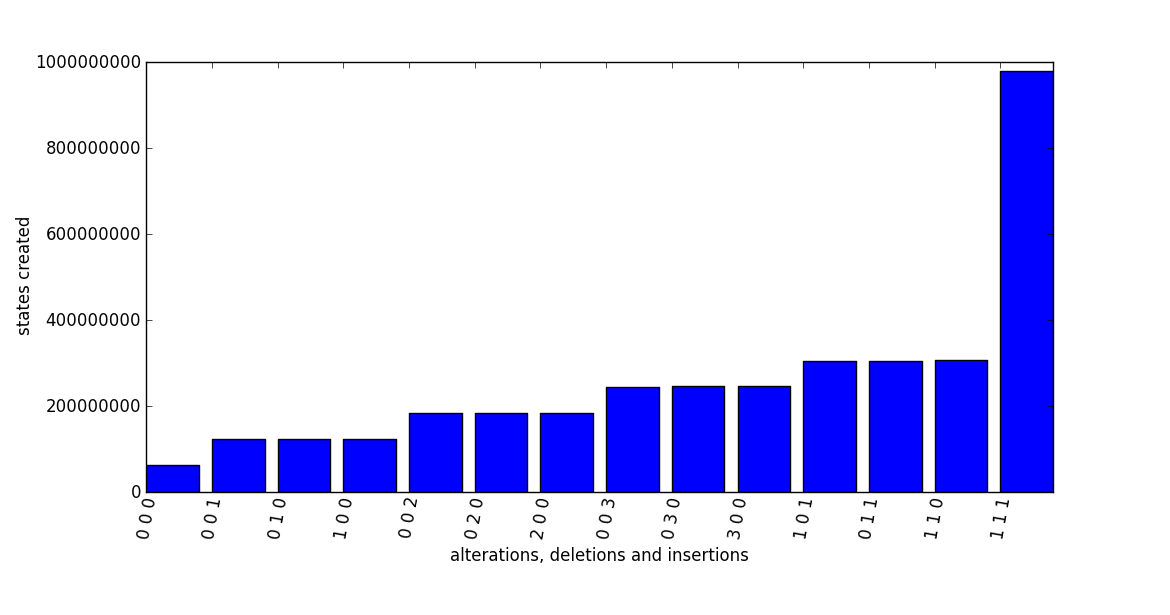
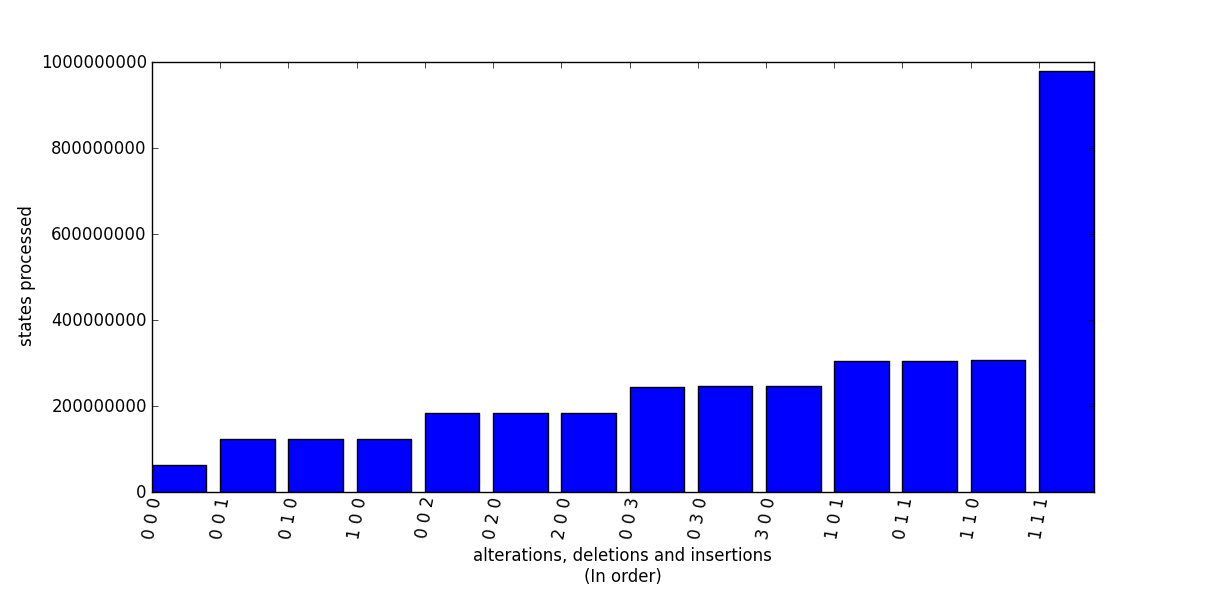
Yir

diff --git a/Rapport/Benchmarking/bench.tex b/Rapport/Benchmarking/bench.tex
@@ -1,8 +1,8 @@
 \section{Experimental Results \& Tests}
 %Using our implementation, TRE and scan\_for\_matches, we were able to do some benchmarking in order to compare performances.
-For this a virtual machine is created, using Oracle VirtualBox\footnote{virtualbox.org}. The machine running the virtualbox is running Windows 8.1 Pro x64 on an SSD, with 8,00 GB RAM, an AMD FX 4300 Quad-Core Processor 3.80 GHz, of which 1 core and 4096MB RAM was given to the virtual machine, which would run Ubuntu 14.04.2 LTS 64 bit.
+For this a virtual machine was created, using Oracle VirtualBox\footnote{virtualbox.org}. The machine running the virtualbox is running Windows 8.1 Pro x64 on an SSD, with 8,00 GB RAM, an AMD FX 4300 Quad-Core Processor 3.80 GHz, of which 1 core and 4096MB RAM was given to the virtual machine, which would run Ubuntu 14.04.2 LTS 64 bit.
 
-We choose to test four different tools, scan\_for\_matches, TRE, Python using the Regex module\footnote{See Appendix~\ref{app:py}} and finally our own implementation, TPaMa. Since TPaMa is focused on supporting insertion, deletion and alteration on a simple sequence, a DNA sequence $TGCAAGCGTTAAT$ with variable insertions is chosen as the search pattern. Each test was executed on a series of data files, a total of of 10 times, given an average runtime, which was used in the following results.
+We chose to test four different tools, scan\_for\_matches, TRE, Python using the Regex module [Appendix~\ref{app:py}] and our own implementation, TPaMa. Since TPaMa is focused on supporting insertion, deletion and alteration on a simple sequence, a DNA sequence $TGCAAGCGTTAAT$ with variable insertions was chosen as the search pattern. Each test was executed on a series of data files, a total of of 10 times, giving an average runtime, which was used in the following results.
 
 %\begin{wrapfigure}{r}{0.6\linewidth}
 %\centering
@@ -11,7 +11,7 @@ We choose to test four different tools, scan\_for\_matches, TRE, Python using th
 %\label{fig:size}
 %\end{wrapfigure}
 
-The testing data was selected to be in the form of the human genome chromosome sequences. Figure~\ref{fig:size} shows a series of fasta files, these files include nucleotide sequences, which all differ in size, decreasing from chr1 to chr22\footnote{http://hgdownload.cse.ucsc.edu/goldenPath/hg18/chromosomes/ JUNE 2015}. These fasta files are the kind of data which scan\_for\_matches is expected to run, and thus excellent for benchmark testing. It is worth noting, that each of these files' lines are 50 characters long, as TRE matches through lines separately, and longer or shorter line sizes might affect the performance of TRE in running time and hits.% This was not tested however.
+The testing data was selected to be in the form of the human genome chromosome sequences. Figure~\ref{fig:size} shows a series of fasta files. These files include nucleotide sequences, which all differ in size, decreasing from chr1 to chr22\footnote{http://hgdownload.cse.ucsc.edu/goldenPath/hg18/chromosomes/ JUNE 2015}. These fasta files are the kind of data which scan\_for\_matches is expected to run, and thus excellent for benchmark testing. It is worth noting, that each of these files' lines are 50 characters long, as TRE matches through lines separately, and longer or shorter line sizes might affect the performance of TRE in running time and hits.% This was not tested however.
 \begin{figure}[h!]
 \centering
 \includegraphics[width=0.7\textwidth]{Benchmarking/size.png}
@@ -19,7 +19,7 @@ The testing data was selected to be in the form of the human genome chromosome s
 \label{fig:size}
 \end{figure}
 
-In the first test we wanted see the runtime of each program, having no mismatches in the pattern $TGCAAGCGTTAAT$. Figure~\ref{fig:0miss} displays the results, and it is evident that scan\_for\_matches is faster all the alternatives. TPaMa and Python has slightly different runtime, TPaMa being slightly faster, and finally TRE is the slowest tool. Common to all four tools is their decrease in runtime corresponds to the sizes of the data files.
+In the first test we wanted see the runtime of each program, having no mismatches in the pattern $TGCAAGCGTTAAT$. Figure~\ref{fig:0miss} displays the results, and it is evident that scan\_for\_matches was faster than all the alternatives. TPaMa and Python had slightly different runtime, TPaMa being slightly faster, and finally TRE was the slowest tool. Common to all four tools was their decrease in runtime corresponds to the sizes of the data files.
 
 \begin{figure}[h!]
 \centering
@@ -36,7 +36,7 @@ In the first test we wanted see the runtime of each program, having no mismatche
 \label{fig:ins1}
 \end{figure}
 
-Next an insertion was added to the pattern, from Figure~\ref{fig:ins1} it is evident that there is an increase in the runtime for all four tools. Scan\_for\_matches continues to be the fastest tool, while TPaMa is the second fastest. Python ran at about double the speed of TPaMa, and TRE continues to be the slowest tool.
+Next an insertion was added to the pattern, from Figure~\ref{fig:ins1} it is evident that there is an increase in the runtime of all four tools. Scan\_for\_matches continued to be the fastest tool, while TPaMa was the second fastest. Python ran at about half the speed of TPaMa, and TRE continued to be the slowest tool.
 
 \begin{figure}[h!]
 \centering
@@ -45,7 +45,7 @@ Next an insertion was added to the pattern, from Figure~\ref{fig:ins1} it is evi
 \label{fig:ins2}
 \end{figure}
 
-The next test added another insertion. Looking at Figure~\ref{fig:ins2} scan\_for\_matches did increase its runtime slightly compared to Figure~\ref{fig:ins1}, but the second insertion greatly affected TPaMa, resulting in it running at about half the speed of TRE, which is still faster than Python.  While TRE also had its runtime slightly increased, it is almost unchanged from one insertion.
+The next test added another insertion. Looking at Figure~\ref{fig:ins2} scan\_for\_matches did increase its runtime slightly compared to Figure~\ref{fig:ins1}, but the second insertion greatly affected TPaMa, resulting in it being only twice as fast as TRE, which is still faster than Python.  While TRE also had its runtime slightly increased, it is almost unchanged from one insertion.
 
 \begin{figure}[h!]
 \centering
@@ -54,26 +54,36 @@ The next test added another insertion. Looking at Figure~\ref{fig:ins2} scan\_fo
 \label{fig:ins3}
 \end{figure}
 
-Testing with three insertions, Figure~\ref{fig:ins3} Python is now the slowest tool, and TPaMa is still faster than TRE, which is now the second slowest tool, and scan\_for\_matches is still the fastest tool.
+Testing with three insertions, Figure~\ref{fig:ins3} Python was the slowest tool, and TPaMa was faster than TRE, which were the second slowest tool. Scan\_for\_matches was still the fastest tool.
 
-From these three tests its evident that TPaMa experiences an increased runtime with an increasing number of insertions, affecting it at a much higher rate than both scan\_for\_matches and TRE. It does seem, however, that Python has a similar problem. From this we can conclude that TPaMa, as of now, might not be suitable for more advanced patterns.
+Finally we had a test where one of each mismatch type was allowed in Figure~\ref{fig:i1m1d1}. Here TPaMa performed slowest, Python being a close second. TRE and scan\_for\_matches were not greatly impacted by the more complex pattern. Scan\_for\_matches was still the fastest tool. 
 
-We suspect the reason for the rate increased runtime, is the rate of which new states are created. To test this claim, we ran TPaMa again, on fasta file chr22.fa, measuring how the number of states, and thereby the amount of work needed to pattern-match, relates to the number of mismatches allowed.
+\begin{figure}[h!]
+\centering
+\includegraphics[width=0.7\textwidth]{Benchmarking/1ins1mut1del.png}
+\caption{Running time of search through fasta files mentioned in Figure~\ref{fig:size} allowing 1 insertions, 1 deletion and 1 alteration on pattern TGCAAGCGTTAAT}
+\label{fig:i1m1d1}
+\end{figure}
+
+From these four tests, it is evident that TPaMa experiences an increased runtime with an increasing number of insertions, affecting it at a much higher rate than both scan\_for\_matches and TRE.  It does seem, however, that Python has a similar problem.
+The most complex pattern, in Figure~\ref{fig:i1m1d1}, with one of each different mismatch type, results in a worse runtime for TPaMa and Python while TRE and scan\_for\_matches continues to perform with only a slightly increased runtime. From this we can conclude that TPaMa, as of now, is not yet suitable for more advanced patterns.
+
+We suspect that the rate of increasing runtime is proportional to the number of states created when allowing mismatching. To test this claim, we ran TPaMa again, on fasta file chr22.fa, measuring how the number of states, and thereby the amount of work needed to pattern-match, relates to the number of mismatches allowed.
 
 \begin{figure}[h!]
 \centering
 \includegraphics[width=0.9\textwidth]{Benchmarking/states_graph.png}
-\caption{Bar chart showcasing the number of states created corresponding to the number of mismatches allowed.}
+\caption{Bar chart showcasing the number of states created, in chr22.fa, corresponding to the number of mismatches allowed.}
 \label{fig:statesgraph}
 \end{figure}
 
-The chart in Figure~\ref{fig:statesgraph} displays an increasing number of states, corresponding to the increasing number of mismatches. We can observe how allowing any number of mismatches of the same type, be it insertion, alternation or deletion, yields roughly the same number of states, actually deletions and alternations gives exactly the same amount of states, as their behavior is exactly the same.
+The chart in Figure~\ref{fig:statesgraph} displays an increasing number of states, corresponding to the increasing number of mismatches. We can observe how allowing any number of mismatches of the same type, be it insertion, alterations or deletion, yields roughly the same number of states. Deletions and alterations giving exactly the same amount of states, as their behavior is exactly the same.
 
-Another observation is how two mismatches of different types result in more new states than two or even three mismatches of the same type would. This can be explained due to TPaMa creating two new states every time a mismatch is encountered in the data. Causing an exponential growth of states, opposed to a linear growth. Finally there is a measurement with a mismatch of every type, causing a massive growth in states, again being due to an exponential growth, now making three states per mismatch, instead of two or one.  
+Another observation is how two mismatches of different types result in more new states than two or even three mismatches of the same type would. This can be explained due to TPaMa creating two new states every time a mismatch is encountered in the data, causing an exponential growth of states, opposed to a linear growth. Finally there is a measurement with a mismatch of every type, causing a massive growth in states due to an exponential growth, now making three states per mismatch, instead of one or two.  
 
 ~
 
-Another interesting thing to test for was the number of hits when searching the files, in Table~\ref{tab:hits} the number of hits which came up when searching on file chr1.fa are shown.
+Another interesting thing to test for was the number of hits when searching the files. In Table~\ref{tab:hits} the number of hits which came up when searching on file chr1.fa are shown.
 
 \begin{table}[h!]
 \centering
@@ -89,4 +99,4 @@ Python & 5 & 48 & 235
 \label{tab:hits}
 \end{table}
 
-The primary reason TPaMa gets more results than scan\_for\_matches is it finding every single match in the file, including overlapping matches, while scan\_for\_matches, by default, only finds matches which do not overlap. TRE has the major disadvantage here that it does not match across newlines, causing it to miss a lot of matches. Finally Python has the same amount of matches as TPaMa, it also looking for overlapping results.
+The primary reason TPaMa gets more results than scan\_for\_matches is it finding every single match in the file, including overlapping matches, while scan\_for\_matches, by default, only finds matches which do not overlap. TRE has the major disadvantage here that it does not match across newlines, causing it to miss a lot of matches. Finally Python has the same amount of matches as TPaMa, because it also looks for overlapping results.

diff --git a/Rapport/Method/Implementation.tex b/Rapport/Method/Implementation.tex
@@ -4,22 +4,18 @@ Having defined an algorithm in Section~\ref{sec:tnfa}, we wished to construct a 
 % Torbens noter kræver begrundelse for beslutninger, hvorfor bruger vi C++
 We wrote a simple program in C++, in order to ensure strict control of the types and behavior of our code. We named the program TNFA Pattern-Matcher (TPaMa). TPaMa is able to create an NFA from a RE, as described in Section~\ref{RA_TO_NFA}, by supporting a series of RE symbols along with concatenation of characters.
 % An example of a TFNA from a RE could be RE "(GAT)+" which would produce a structure as shown in Figure~\ref{fig:gat}
-
 %\begin{figure}[h!]
 %\centering
 %\includegraphics[width=0.5\textwidth]{lib/gat.png}
 %\caption{Example of how TPaMa constructs a TNFA from RE (GAT)+}
 %\label{fig:gat}
 %\end{figure}
-
-Currently the search implementation of TPaMa only support simple patterns such as "GAT", which does not cause any $\epsilon$-transitions to be constructed. This choice was made, so we could focus on the performance of mismatching while giving support to the most crucial part of pattern-matching.
-
-This also meant that determining reachable states, as mentioned in Algorithm~\ref{tnfasim} \&~\ref{tnfatrans}, is rather straightforward, as there's only up to one possible next state for every state (zero for the final state). 
-
+Currently the search implementation of TPaMa only support simple patterns such as "GAT", which does not cause any $\epsilon$-transitions to be constructed. This choice was made, so we could focus on the performance of mismatching while giving support to the most crucial part of pattern-matching. This also meant that determining reachable states, as mentioned in Algorithm~\ref{tnfasim} \&~\ref{tnfatrans}, is rather straightforward, as there's only up to one possible next state for every state (zero for the final state).\\
 To handle mismatching, recall Table~\ref{nfac}:
 
-%\begin{table}[h]
+\begin{table}[h]
 \begin{tabular}{*{2}{m{0.4\textwidth}}}
+\hline
 \begin{center}$a$\end{center} &\begin{center}
 \begin{tikzpicture}[->,>=stealth,shorten >=1pt,auto,node distance=2 cm, scale = 0.75, transform shape,initial text={}]
   \node [initial, state] (0) {};
@@ -31,9 +27,10 @@ To handle mismatching, recall Table~\ref{nfac}:
 
   \path[->] (0) edge [color=blue,bend right] node [color=black, below] {$\epsilon/a$} (1);
 \end{tikzpicture}\end{center}\\
+\hline
 \end{tabular}
-%\end{table}
+\end{table}
 
-There's three different types of mismatches. Instead of having three types of transitions, as the theory call for, in the simulation we solve this by having three counters in each state, one for each type of mismatch (insertions, alternation and deletion), keeping track of the remaining number of mismatches allowed in the match. Whenever a match can not be made, for each mismatch counter with a positive value, a new state is created corresponding to the transitions above; alternations and deletions both advance the state to the next reachable, while insertions remain in the same state in the TNFA, the corresponding mismatch counter is decreased and the pattern-matching continues.
+There's three different types of mismatches. Instead of having three types of transitions, as the theory calls for, in the simulation we solve this by having three counters in each state, one for each type of mismatch, keeping track of the remaining number of mismatches allowed in the match. Whenever a match can not be made, for each mismatch counter with a positive value, a new state is created corresponding to the transitions above; alternations and deletions both advance the state to the next reachable, while insertions remain in the same state in the TNFA. The corresponding mismatch counter is decreased, and the pattern-matching continues.
 
-For every state in the stateset, at some point it will either match the final state of the TFNA at which point a match is printed, or a state will not be able to match, even with mismatches, at which point it will be erased from the stateset. This continues until all data has been checked, at which point the TPaMa terminates.
+For every state in the stateset, at some point it either match the final state of the TFNA, causing the match to be printed, or the state is unmatchable, even with mismatches, causing it to be be erased from the stateset. This continues until all data has been checked, at which point TPaMa terminates.

diff --git a/Rapport/Preliminaries/Biology.tex b/Rapport/Preliminaries/Biology.tex
@@ -20,7 +20,8 @@ nucleotide. DNA can have four nitrogenous bases:
 \end{itemize}
 DNA is primarily found in nature as helixes, where two strands have bonded. Each 
 base has a complementary base with which they can form a hydrogen bond. 
-G is the complementary base of C and A is the complementary base of T.\\\\
+G is the complementary base of C and A is the complementary base of T.
+
 DNA holds the hereditary material of the cells and can replicate itself by 
 detaching two bonded strands, then use each as a template for a new strand 
 to bond with the detached strands~\cite[p. 199]{alberts}.
@@ -33,7 +34,8 @@ can fold back on themselves or bundled with other chains to form a structure. Th
 flexibility of the backbone, which allows for chains to fold in on themselves is 
 possible because the RNA's backbone is composed of a sugar called ribose, which 
 allows more flexibility compared to its alternative form, deoxyribose, used in 
-deoxyribonucleic acid (DNA).\\\\
+deoxyribonucleic acid (DNA).
+
 %Maybe delete next part
 When DNA creates RNA through transcribing portions of its sequence\footnote{A 
 sequence is a succession of nucleotides}, five different kinds of RNA are 
@@ -48,19 +50,12 @@ created\cite[p. 236, table 7-1]{alberts}:
 Where mRNA, rRNA and tRNA are responsible for protein synthesis, while miRNA 
 regulates the gene expression of DNA in the cell.
 \subsection{Secondary Structure}\label{structs}
-<<<<<<< HEAD
-The secondary structure of DNA and RNA describes how the bases of the 
-strand has bonded to itself. The secondary structure can change if 
-the strand is damaged or has mutated, causing it to gain or lose 
-bases. Below are examples of three common secondary structures.
-\subsubsection{Bulge}
-=======
 The secondary structure of DNA and RNA describes how bases of 
 strands bond to themselves. The secondary structure can change if 
 a strand is damaged or has mutated, causing it to gain or lose 
-bases. Below are examples of three common secondary structures.\\\\
-\textbf{Bulge}\\ 
->>>>>>> 2330baa041c59e8f3e3abf5dbcfd2666521240cf
+bases. Below are examples of three common secondary structures.
+
+\subsubsection{Bulge}
 A bulge occurs when one or more bases have no base to bond with, and these 
 bases are surrounded by bases which have bonded. This causes the bases to get 
 pushed out slightly, resembling a bulging growth. This type of structure occurs 
@@ -99,7 +94,7 @@ shows a stem loop.
 \includegraphics[scale=0.35]{./lib/stem-loop.png}
 \caption{A stem loop of the RNA sequence {\tt AAAAUUGGUCUUUU}.}
 \label{fig:stem-loop}
-\end{figure} 
+\end{figure}
 An important thing to note is how the sequence can be seen as one 
 long strand that starts from the adenine bases, which binds with the uracil bases, 
 loops around without binding to anything and finally become the uracil bases 
@@ -108,4 +103,3 @@ stem loop from Figure~\ref{fig:int-loop} can be written as one continuous
 sequence of bases; {\tt AAAAUUGGUCUUUU}. Since we can define a stem loop, we can 
 search through a file documenting the bases of a nucleic acid and find all stem 
 loops.
-

diff --git a/Implementation/src/Model.cpp b/Implementation/src/Model.cpp
@@ -159,13 +159,12 @@ int main(int argc, char* argv[]){
     states->deletions = atoi(argv[argc-3]);
     states->mutations = atoi(argv[argc-4]);
 
-	if(states->insertions > 9 or states->deletions > 9 or states->mutations > 9)
-	{
-		std::cout << "Value of mismatches seems a bit high, maybe lower a bit" << std::endl;
-		return -1;
-	}
+    if(states->insertions > 9 or states->deletions > 9 or states->mutations > 9)
+    {
+        std::cout << "Value of mismatches seems a bit high, maybe lower a bit" << std::endl;
+        return -1;
+    }
 
-    
     /*
     Each node created will have a value attached to it, 
     to keep track of the node.  This counter is handled by a single
@@ -285,15 +284,10 @@ int main(int argc, char* argv[]){
 
                     if(result!=0){
                         if(!showhits)
-                            output += std::string(buffer).substr(i-result, result) + "\[" + f(cnt-result) + ":" + f(cnt) +  "]\n";
+                            std::cout << std::string(buffer).substr(i-result, result) << "\[" << f(cnt-result) << ":" << f(cnt) <<  "]\n";
                         else
                             hits += 1;
                     }
-                }
-                if(!showhits){
-                    // Prints hits after each sign
-                    std::cout << output;
-                    output.clear();
                 }
             }
             length -= read_chunk;

diff --git a/Rapport/Method/TRE.tex b/Rapport/Method/TRE.tex
@@ -18,7 +18,8 @@ match a modification of a previously found pattern - like the reverse
 complement of a pattern. This would have to be implemented in TRE's parser 
 (to denote a symbol for the modified patterns, e.g. the reverse or the 
 complement of a pattern) as 
-well as in TRE's basic functionality.\\\\
+well as in TRE's basic functionality.
+
 When analyzing TRE so we could start modifying the 
 program, we discovered that TRE would define every newline as a delimiter. The 
 delimiter specifies how the data should split, causing every new line 
@@ -28,7 +29,8 @@ processed, causing matches wrapping around two
 lines to be discarded. The fix to this could be to make a wrapper 
 was created which would feed the text data to TRE, 
 ignoring all newlines, then TRE would load the entire file into its buffer, 
-which would no longer cause it to discard potential matches across newlines.\\\\
+which would no longer cause it to discard potential matches across newlines.
+
 Upon running a file through TRE, ignoring newlines, we discovered 
 another feature of TRE, which would not work for our project; TRE would only 
 find one match per delimiter, it being the earliest, best-matching match (where a 

diff --git a/Rapport/Benchmarking/state_plot.py b/Rapport/Benchmarking/state_plot.py
@@ -24,8 +24,8 @@ ax.ticklabel_format(style='plain')       # Remark 2
 ax.set_xticks(range(len(labels)))
 ax.set_xticklabels(labels, rotation=80)
 ax.bar(range(len(grosses)), grosses)
-plt.xlabel('alterations, deletions and insertions')
-plt.ylabel('states created')
+plt.xlabel('alterations, deletions and insertions\n(In order)')
+plt.ylabel('states processed')
 plt.show()
 
 #0           =  62242364     0    hits
